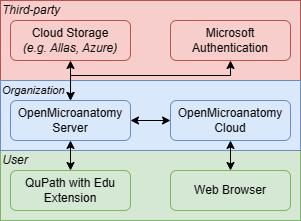
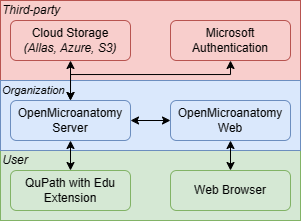
renamed OpenMicroanatomy Cloud to Web

Changed region(s): [[0.0598, 0.19, 0.3887, 0.2443], [0.2392, 0.3258, 0.7774, 0.3529], [0.7176, 0.543, 0.8372, 0.5973]]

diff --git a/index.html b/index.html
@@ -485,7 +485,7 @@ body.book #toc,body.book #preamble,body.book h1.sect0,body.book .sect1>h2{page-b
 </li>
 </ul>
 </li>
-<li><a href="#_openmicroanatomy_cloud">OpenMicroanatomy Cloud</a></li>
+<li><a href="#_openmicroanatomy_web">OpenMicroanatomy Web</a></li>
 <li><a href="#_openmicroanatomy_server">OpenMicroanatomy Server</a>
 <ul class="sectlevel2">
 <li><a href="#_installation_docker">Installation (Docker)</a>
@@ -536,13 +536,13 @@ body.book #toc,body.book #preamble,body.book h1.sect0,body.book .sect1>h2{page-b
 <div class="sect2">
 <h3 id="_what_is_openmicroanatomy">What is OpenMicroanatomy</h3>
 <div class="paragraph">
-<p>OpenMicroanatomy is a project built on top of QuPath which contains three components: <strong>OpenMicroanatomy Server</strong>, <strong>OpenMicroanatomy Cloud</strong> and <strong>QuPath Edu Extension</strong>.</p>
+<p>OpenMicroanatomy is a project built on top of QuPath which contains three components: <strong>OpenMicroanatomy Server</strong>, <strong>OpenMicroanatomy Web</strong> and <strong>QuPath Edu Extension</strong>.</p>
 </div>
 <div class="paragraph">
 <p><a href="https://github.com/openmicroanatomy/qupath-extension"><strong>QuPath Edu Extension</strong></a> is an extension for <a href="https://qupath.github.io/">QuPath</a>, which allows QuPath projects (called <em>Lessons</em> in QuPath Edu) to be synced between multiple users via an <a href="https://github.com/openmicroanatomy/server"><strong>OpenMicroanatomy Server</strong></a>. The <strong>OpenMicroanatomy Server</strong> handles all the heavy lifting required to authenticate users, upload new slides, manage data and so on. <em>QuPath Edu</em> is also compatible with other data sources, such as <a href="https://github.com/qupath/qupath-extension-omero">Omero</a>.</p>
 </div>
 <div class="paragraph">
-<p>OpenMicroanatomy also includes <a href="https://github.com/openmicroanatomy/web"><strong>OpenMicroanatomy Cloud</strong></a>, which is a web application that communicates with a <strong>OpenMicroanatomy Server</strong> and can be used for <strong>viewing</strong> projects.</p>
+<p>OpenMicroanatomy also includes <a href="https://github.com/openmicroanatomy/web"><strong>OpenMicroanatomy Web</strong></a>, which is a web application that communicates with a <strong>OpenMicroanatomy Server</strong> and can be used for <strong>viewing</strong> projects.</p>
 </div>
 <div id="img-components" class="imageblock">
 <div class="content">
@@ -659,7 +659,7 @@ body.book #toc,body.book #preamble,body.book h1.sect0,body.book .sect1>h2{page-b
 </ul>
 </div>
 <div class="paragraph">
-<p><strong>OpenMicroanatomy Cloud</strong></p>
+<p><strong>OpenMicroanatomy Web</strong></p>
 </div>
 <div class="ulist">
 <ul>
@@ -1053,7 +1053,7 @@ In QuPath Edu Server version 1.0 a bug exists, which allows users with write per
 </div>
 </div>
 <div class="sect1">
-<h2 id="_openmicroanatomy_cloud">OpenMicroanatomy Cloud</h2>
+<h2 id="_openmicroanatomy_web">OpenMicroanatomy Web</h2>
 <div class="sectionbody">
 <div class="paragraph">
 <p><strong>Documentation in progress</strong>.</p>
@@ -1362,7 +1362,7 @@ Manual OpenMicroanatomy installations are not recommended. Assistance for any is
 <div class="sect3">
 <h4 id="_fixing_incorrect_slide_paths">Fixing Incorrect Slide Paths</h4>
 <div class="paragraph">
-<p>Uploading slides with an incorrect <code>server.path</code> inside <code>application.conf</code> will result in QuPath and OpenMicroanatomy Cloud not knowing where the slides are actually stored and making them inaccessible. The <code>server.path</code> is encoded within each slides <code>.properties</code> file when uploaded, thus requiring them to be manually updated if the <code>server.path</code> is changed.</p>
+<p>Uploading slides with an incorrect <code>server.path</code> inside <code>application.conf</code> will result in QuPath and OpenMicroanatomy Web not knowing where the slides are actually stored and making them inaccessible. The <code>server.path</code> is encoded within each slides <code>.properties</code> file when uploaded, thus requiring them to be manually updated if the <code>server.path</code> is changed.</p>
 </div>
 <div class="paragraph">
 <p>To check for any incorrect paths run the following command in the server root directory.</p>
@@ -1400,7 +1400,7 @@ Manual OpenMicroanatomy installations are not recommended. Assistance for any is
 </div>
 <div id="footer">
 <div id="footer-text">
-Last updated 2023-09-22 08:37:16 +0300
+Last updated 2023-09-22 08:41:30 +0300
 </div>
 </div>
 </body>
